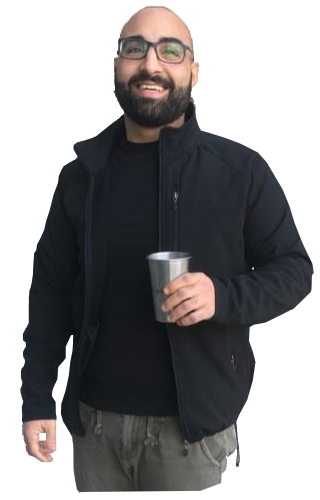
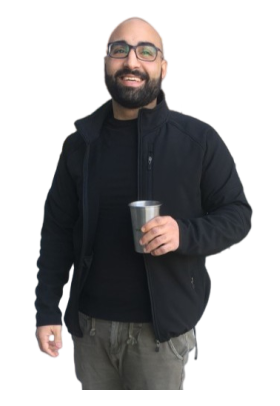
pic changes

diff --git a/src/routes/homepage/Hero.css b/src/routes/homepage/Hero.css
@@ -14,17 +14,17 @@
 
 .typewriter {
   z-index: -1;
-  margin: 8rem 0px 0px -60px;
+  margin: 6rem 0px 0px -70px;
   width: 18.5rem;
   
 }
 .type-h1 {
   font-family: "Poppins", sans-serif;
-  margin: 5px auto 30px;
+  margin:  auto;
   color: #52616b;
   letter-spacing: 1px; /* Adjust as needed */
   font-weight: 900;
-  font-size: 8.1rem;
+  font-size: 7.1rem;
   animation: moveInRight 1s ease-in;
 }
 .floating-text {
@@ -64,11 +64,11 @@
 @media (max-width: 700px) {
   .my-img {
     margin: 3rem 0px 0px 20px;
-    max-width: 45%;
+    max-width: 50%;
   }
 
   .typewriter {
-    margin: 5.2rem 0px 0px -35px;
+    margin: 5.5rem 0px 0px -55px;
     width: 15rem;
   }
   .type-h1 {
@@ -76,8 +76,8 @@
     animation: none;
   }
   .floating-text {
-    margin: -20px 0px 20px -10px;
-
+    /* margin: -20px 0px 20px -10px; */
+    text-indent: 0px;
     width: 13.5rem;
     font-size: 1.1rem;
   }

diff --git a/src/routes/homepage/Features.css b/src/routes/homepage/Features.css
@@ -26,6 +26,7 @@ width: 100%;
 width: 15rem;
 height: 13rem;
 border-radius: 50%;
+object-fit: cover;
 }
 .features-title{
   
